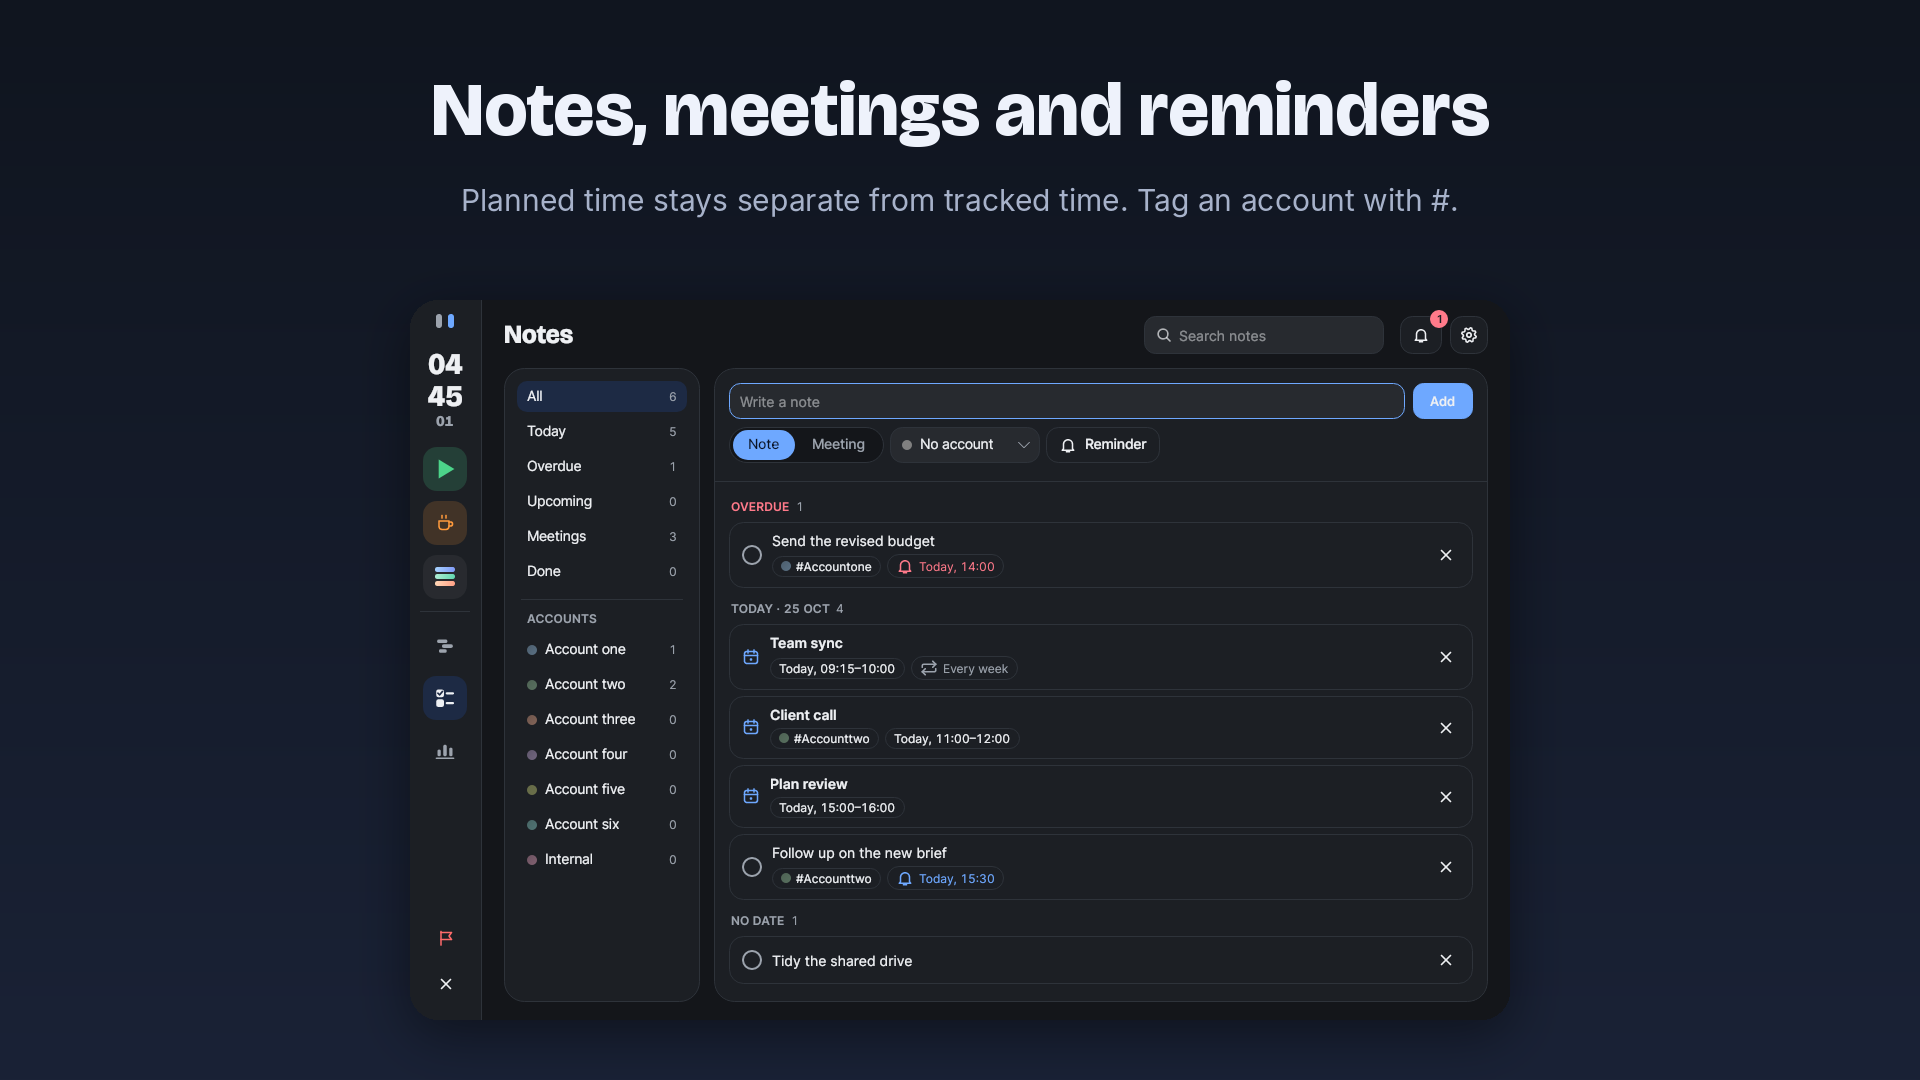
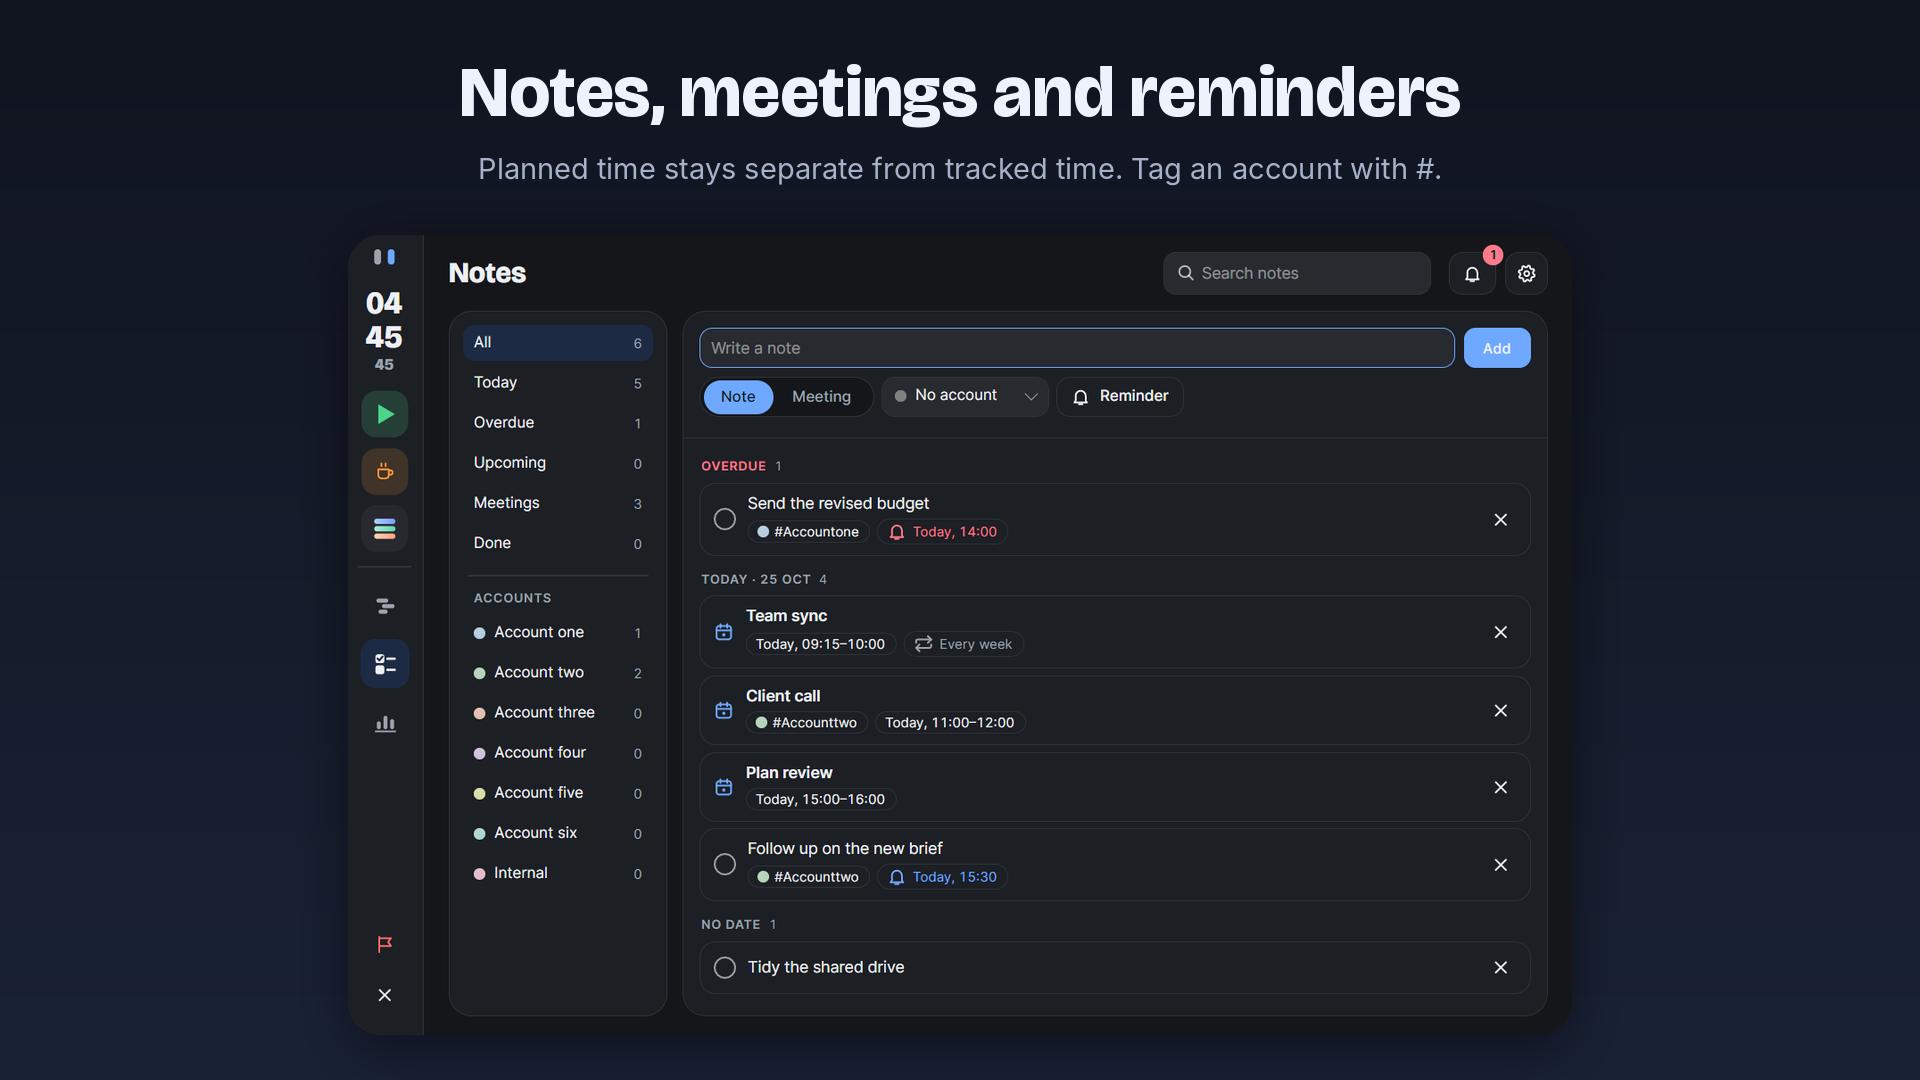
Mock: Store board uses the supplied screenshots, with a hero image
Claude-Session: https://claude.ai/code/session_01YaAgatq2J37HRpbrvmLHBS

diff --git a/docs/redesign/mock/Store.dc.html b/docs/redesign/mock/Store.dc.html
@@ -13,7 +13,7 @@ table{width:100%;border-collapse:collapse;font-size:13px}td,th{text-align:left;p
 .ask{background:#FFF8E8;border:1px solid #F0D9A0}.ask li{margin:4px 0;font-size:14px}.tiles{display:flex;gap:22px;align-items:flex-end;flex-wrap:wrap}.tiles figure{width:auto}.tiles img{border-radius:10px}
 </style></helmet>
 <div class="b">
-<div><h1>Microsoft Store listing, in draft</h1><p>Everything Partner Center will ask for, written out and ready to paste. Nothing has been submitted. The wording is a first draft for you to edit, and limits are the ones I know of, so check them against Partner Center when you paste. Screenshots are real captures of the app from its own renderer with demo data, composed at 1920 by 1080, and should be retaken on Windows before submission.</p></div>
+<div><h1>Microsoft Store listing, in draft</h1><p>Everything Partner Center will ask for, written out and ready to paste. Nothing has been submitted. The wording is a first draft for you to edit, and limits are the ones I know of, so check them against Partner Center when you paste. Screenshots are your own captures of the app, cropped to the window and set on a 1920 by 1080 backdrop with a caption.</p></div>
 
 <div class="sec ask"><h2>What I need from you</h2><ul>
 <li><b>Price.</b> Free, or paid? (The package has no purchase or licence code.)</li>
@@ -58,17 +58,17 @@ Basic’s Advanced Timer is built for Windows 10 and 11.</pre><div class="cnt">1
 <tr><td>System requirements</td><td>Windows 10 version 2004 (build 19041) or later, 64-bit. The manifest sets this minimum. I have not listed memory or disk figures because I have not measured them.</td></tr>
 <tr><td>Age rating</td><td>Answer the questionnaire with No throughout: no violence, no user-generated content shared with others, no online interaction, no purchases. That should give the lowest rating.</td></tr></table></div>
 
-<div class="sec"><h2>Screenshots<span class="pill todo">retake on Windows</span></h2><p>1920 by 1080 PNG, five of the ten the Store allows. The window itself is a true render at its real size, not stretched.</p><div class="grid"><figure><img src="store/shot1-timeline.png" alt="1. Timeline"><figcaption><b>1. Timeline</b> Light. Block selected, notes beside it.</figcaption></figure><figure><img src="store/shot2-week.png" alt="2. Week overview"><figcaption><b>2. Week overview</b> Light. Chart view.</figcaption></figure><figure><img src="store/shot3-notes.png" alt="3. Notes page"><figcaption><b>3. Notes page</b> Dark.</figcaption></figure><figure><img src="store/shot4-dark.png" alt="4. Dark theme"><figcaption><b>4. Dark theme</b> Dark timeline.</figcaption></figure><figure><img src="store/shot5-table.png" alt="5. Week table"><figcaption><b>5. Week table</b> Light. The table view, for the export story.</figcaption></figure></div>
-<h3>Still to capture on Windows</h3><ul class="l"><li><span>The pill on top of another app, then with the account drawer sliding out (the drawer is a pop-up, so I cannot capture it headless).</span></li><li><span>The pill in its states: running, break, overtime, reminder due.</span></li><li><span>The notification-area icon (light and dark taskbar).</span></li></ul></div>
+<div class="sec"><h2>Screenshots<span class="pill ok">your captures</span></h2><p>1920 by 1080 PNG, five of the ten the Store allows. Each window is your capture scaled down to fit, never stretched, and the desktop behind it is cropped out.</p><div class="grid"><figure><img src="store/shot1-timeline.png" alt="1. Timeline"><figcaption><b>1. Timeline</b> Light.</figcaption></figure><figure><img src="store/shot2-week.png" alt="2. Week overview"><figcaption><b>2. Week overview</b> Light. Chart view.</figcaption></figure><figure><img src="store/shot3-notes.png" alt="3. Notes page"><figcaption><b>3. Notes page</b> Dark.</figcaption></figure><figure><img src="store/shot4-dark.png" alt="4. Dark theme"><figcaption><b>4. Dark theme</b> Dark timeline.</figcaption></figure><figure><img src="store/shot5-table.png" alt="5. Week table"><figcaption><b>5. Week table</b> Light. The table view, for the export story.</figcaption></figure></div>
+<h3>Still to capture</h3><ul class="l"><li><span>The pill on top of another app, then with the account drawer open. This is the app’s main idea and none of the five shows it.</span></li><li><span>The pill in its states: running, break, overtime, reminder due.</span></li><li><span>The notification-area icon (light and dark taskbar), which is Windows only.</span></li></ul></div>
 
-<div class="sec"><h2>Art assets<span class="pill todo">draft</span></h2><p>Drawn from the app icon. The tagline is a placeholder.</p>
-<div class="tiles"><figure><img src="store/app-tile-300.png" alt="" style="width:150px"><figcaption><b>App tile</b> 300 × 300</figcaption></figure><figure><img src="store/box-art-1080.png" alt="" style="width:260px"><figcaption><b>Box art</b> 1080 × 1080</figcaption></figure><figure><img src="store/poster-720x1080.png" alt="" style="width:173px"><figcaption><b>Poster art</b> 720 × 1080</figcaption></figure></div>
+<div class="sec"><h2>Art assets<span class="pill todo">draft</span></h2><p>Tiles are drawn from the app icon, and the tagline is a placeholder. The hero is screenshot 1 on its own, with no caption.</p>
+<div class="tiles"><figure><img src="store/app-tile-300.png" alt="" style="width:150px"><figcaption><b>App tile</b> 300 × 300</figcaption></figure><figure><img src="store/box-art-1080.png" alt="" style="width:260px"><figcaption><b>Box art</b> 1080 × 1080</figcaption></figure><figure><img src="store/poster-720x1080.png" alt="" style="width:173px"><figcaption><b>Poster art</b> 720 × 1080</figcaption></figure><figure><img src="store/hero-1920x1080.png" alt="" style="width:330px"><figcaption><b>Hero image</b> 1920 × 1080</figcaption></figure></div>
 <h3>Sizes</h3><table><tr><th>Asset</th><th>Size</th><th>Status</th></tr>
 <tr><td>Screenshots</td><td>1366 × 768 or larger, PNG (1920 × 1080 here)</td><td>Draft, five of up to ten</td></tr>
 <tr><td>App tile icon</td><td>300 × 300 (1:1)</td><td>Draft above; the manifest tiles in StoreAssets are already cut from the icon</td></tr>
 <tr><td>Box art</td><td>1080 × 1080 (1:1)</td><td>Draft above</td></tr>
 <tr><td>Poster art</td><td>720 × 1080 (2:3)</td><td>Draft above</td></tr>
-<tr><td>Hero image</td><td>1920 × 1080 (16:9), optional</td><td>Not made. Screenshot 1 could serve</td></tr>
+<tr><td>Hero image</td><td>1920 × 1080 (16:9), optional</td><td>Draft above</td></tr>
 <tr><td>Trailer</td><td>Optional</td><td>None</td></tr></table></div>
 
 <div class="sec"><h2>Partner Center answers<span class="pill todo">for review</span></h2>
@@ -79,7 +79,7 @@ Basic’s Advanced Timer is built for Windows 10 and 11.</pre><div class="cnt">1
 <div class="sec"><h2>Before submitting</h2><ul class="l">
 <li><span>Promote experimental to main by pull request (on hold). That run builds the unsigned MSIX.</span><em>you</em></li>
 <li><span>Install the MSIX on a clean Windows machine: first launch, tray icon, persistence across restart, undo, CSV export, Start with Windows.</span><em>you</em></li>
-<li><span>Retake the screenshots on Windows at 100 per cent scale.</span><em>you / me</em></li><li><span>In the installed package, find where an export lands (the data folder is virtualised under the package) and check the app shows the path clearly enough for a user to find it.</span><em>you</em></li>
+<li><span>Take the pill shots (with the drawer open, and its states) and send them to me.</span><em>you</em></li><li><span>In the installed package, find where an export lands (the data folder is virtualised under the package) and check the app shows the path clearly enough for a user to find it.</span><em>you</em></li>
 <li><span>Answer the open questions above and paste the text into Partner Center.</span><em>you</em></li>
 <li><span>Upload only BasicsAdvancedTimer-Store-unsigned.msix from the main run.</span><em>you</em></li></ul></div>
 </div></x-dc>
